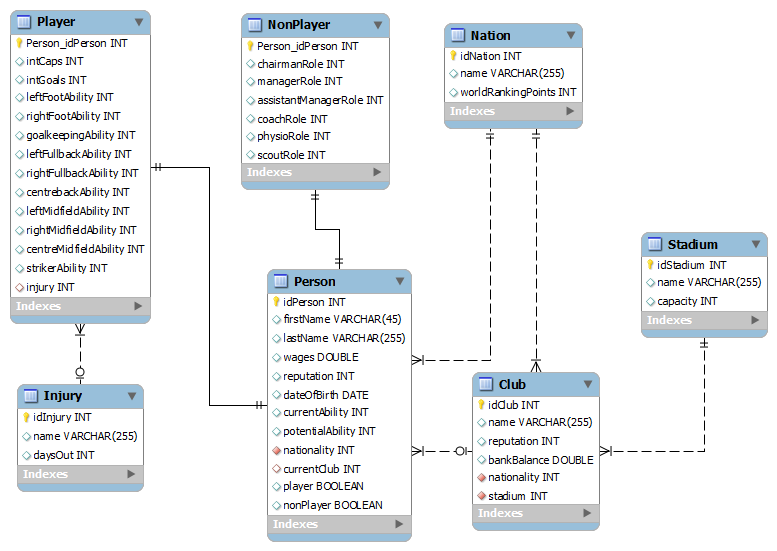
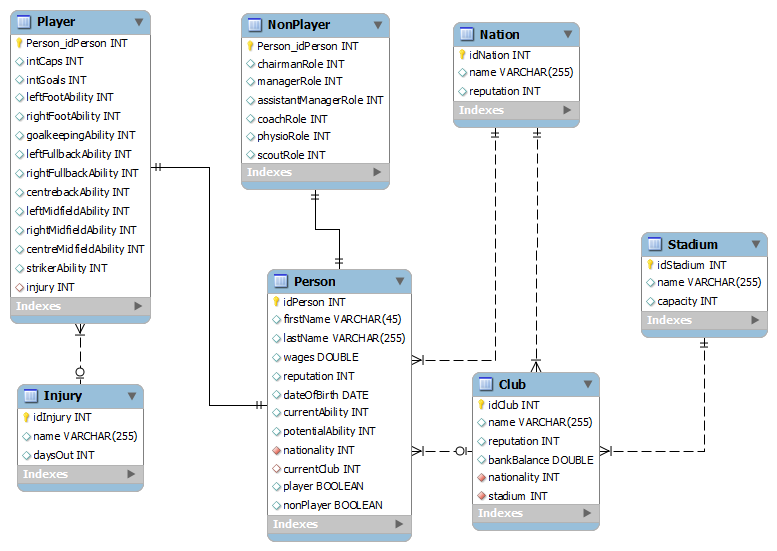
Added another screen as well as removing previous manager when user takes over

Changed region(s): [[0.556, 0.0309, 0.7722, 0.2777]]

diff --git a/src/ie/tippinst/jod/fm/gui/MainGame.java b/src/ie/tippinst/jod/fm/gui/MainGame.java
@@ -1,0 +1,109 @@
+package ie.tippinst.jod.fm.gui;
+
+/*
+ * To change this template, choose Tools | Templates
+ * and open the template in the editor.
+ */
+
+/*
+ * MainGame.java
+ *
+ * Created on 20-Nov-2009, 22:54:32
+ */
+
+/**
+ *
+ * @author Joseph
+ */
+public class MainGame extends javax.swing.JFrame {
+
+    /** Creates new form MainGame */
+    public MainGame() {
+    	super("Football Manager");
+        initComponents();
+        this.setLocationRelativeTo(null);
+    }
+
+    /** This method is called from within the constructor to
+     * initialize the form.
+     * WARNING: Do NOT modify this code. The content of this method is
+     * always regenerated by the Form Editor.
+     */
+    @SuppressWarnings("unchecked")
+    // <editor-fold defaultstate="collapsed" desc="Generated Code">
+    private void initComponents() {
+
+        jButton1 = new javax.swing.JButton();
+        jButton2 = new javax.swing.JButton();
+        jButton3 = new javax.swing.JButton();
+        jPanel1 = new javax.swing.JPanel();
+        jMenuBar1 = new javax.swing.JMenuBar();
+        jMenu1 = new javax.swing.JMenu();
+        jMenu2 = new javax.swing.JMenu();
+
+        setDefaultCloseOperation(javax.swing.WindowConstants.EXIT_ON_CLOSE);
+
+        jButton1.setText("Back");
+
+        jButton2.setText("Continue");
+
+        jButton3.setText("Forward");
+
+        javax.swing.GroupLayout jPanel1Layout = new javax.swing.GroupLayout(jPanel1);
+        jPanel1.setLayout(jPanel1Layout);
+        jPanel1Layout.setHorizontalGroup(
+            jPanel1Layout.createParallelGroup(javax.swing.GroupLayout.Alignment.LEADING)
+            .addGap(0, 400, Short.MAX_VALUE)
+        );
+        jPanel1Layout.setVerticalGroup(
+            jPanel1Layout.createParallelGroup(javax.swing.GroupLayout.Alignment.LEADING)
+            .addGap(0, 235, Short.MAX_VALUE)
+        );
+
+        jMenu1.setText("File");
+        jMenuBar1.add(jMenu1);
+        
+
+        jMenu2.setText("Edit");
+        jMenuBar1.add(jMenu2);
+
+        setJMenuBar(jMenuBar1);
+
+        javax.swing.GroupLayout layout = new javax.swing.GroupLayout(getContentPane());
+        getContentPane().setLayout(layout);
+        layout.setHorizontalGroup(
+            layout.createParallelGroup(javax.swing.GroupLayout.Alignment.LEADING)
+            .addComponent(jPanel1, javax.swing.GroupLayout.DEFAULT_SIZE, javax.swing.GroupLayout.DEFAULT_SIZE, Short.MAX_VALUE)
+            .addGroup(layout.createSequentialGroup()
+                .addComponent(jButton1, javax.swing.GroupLayout.PREFERRED_SIZE, 63, javax.swing.GroupLayout.PREFERRED_SIZE)
+                .addPreferredGap(javax.swing.LayoutStyle.ComponentPlacement.RELATED)
+                .addComponent(jButton3, javax.swing.GroupLayout.PREFERRED_SIZE, 91, javax.swing.GroupLayout.PREFERRED_SIZE)
+                .addPreferredGap(javax.swing.LayoutStyle.ComponentPlacement.RELATED, 142, Short.MAX_VALUE)
+                .addComponent(jButton2, javax.swing.GroupLayout.PREFERRED_SIZE, 98, javax.swing.GroupLayout.PREFERRED_SIZE))
+        );
+        layout.setVerticalGroup(
+            layout.createParallelGroup(javax.swing.GroupLayout.Alignment.LEADING)
+            .addGroup(javax.swing.GroupLayout.Alignment.TRAILING, layout.createSequentialGroup()
+                .addComponent(jPanel1, javax.swing.GroupLayout.DEFAULT_SIZE, javax.swing.GroupLayout.DEFAULT_SIZE, Short.MAX_VALUE)
+                .addPreferredGap(javax.swing.LayoutStyle.ComponentPlacement.RELATED)
+                .addGroup(layout.createParallelGroup(javax.swing.GroupLayout.Alignment.BASELINE)
+                    .addComponent(jButton1, javax.swing.GroupLayout.PREFERRED_SIZE, 36, javax.swing.GroupLayout.PREFERRED_SIZE)
+                    .addComponent(jButton2, javax.swing.GroupLayout.PREFERRED_SIZE, 38, javax.swing.GroupLayout.PREFERRED_SIZE)
+                    .addComponent(jButton3, javax.swing.GroupLayout.PREFERRED_SIZE, 36, javax.swing.GroupLayout.PREFERRED_SIZE)))
+        );
+
+        pack();
+    }// </editor-fold>
+
+    // Variables declaration - do not modify
+    private javax.swing.JButton jButton1;
+    private javax.swing.JButton jButton2;
+    private javax.swing.JButton jButton3;
+    private javax.swing.JMenu jMenu1;
+    private javax.swing.JMenu jMenu2;
+    private javax.swing.JMenuBar jMenuBar1;
+    private javax.swing.JPanel jPanel1;
+    // End of variables declaration
+
+}
+

diff --git a/src/ie/tippinst/jod/fm/app/Game.java b/src/ie/tippinst/jod/fm/app/Game.java
@@ -57,6 +57,23 @@ public class Game {
 		Iterator<Injury> iInjury;
 		Iterator<Nation> iNation;
 		
+		/*File file = new File("stadium.xml");
+		try {
+			FileInputStream fos = new FileInputStream(file);
+			BufferedInputStream bos = new BufferedInputStream(fos);
+			XMLDecoder decoder = new XMLDecoder(bos);
+			do{
+				stadiumList.add((Stadium)decoder.readObject());
+			}while(stadiumList.size() < 2);
+		} catch (FileNotFoundException e) {
+			e.printStackTrace();
+		}
+		
+		Iterator<Stadium> iStadium = stadiumList.iterator();
+		while(iStadium.hasNext()){
+			System.out.println(iStadium.next());
+		}*/
+		
 		try {
 			Class.forName("org.gjt.mm.mysql.Driver");
 			
@@ -249,8 +266,22 @@ public class Game {
 		NonPlayer user = new NonPlayer(firstName, surname, nation, 5000, new Date(), 100, 200, 1, 20, 1, 1, 1, 1, userClub);
 		getPersonList().add(user);
 		System.out.println(user);
-		
-	}
-
-	
+		Iterator<Person> iPerson = personList.iterator();
+		while(iPerson.hasNext()){
+			Person p = iPerson.next();
+			if((p instanceof NonPlayer)&&(p.getCurrentClub().getId() == userClub.getId())&&(((NonPlayer)p).getManagerRole() == 20)&&(iPerson.hasNext())){
+				System.out.println(p);
+				iClub = clubList.iterator();
+				Club c = null;
+				while(iClub.hasNext()){
+					c = iClub.next();
+					if(c.getName().equals("No Club"))
+					break;
+				}
+				p.setCurrentClub(c);
+				System.out.println(p);
+				break;
+			}
+		}
+	}	
 }

diff --git a/src/ie/tippinst/jod/fm/model/Person.java b/src/ie/tippinst/jod/fm/model/Person.java
@@ -16,6 +16,14 @@ public abstract class Person {
 	private Date contractExpiry;
 	private Club currentClub;
 	
+	public Club getCurrentClub() {
+		return currentClub;
+	}
+
+	public void setCurrentClub(Club currentClub) {
+		this.currentClub = currentClub;
+	}
+
 	protected Person(int id, String firstName, String lastName, Nation nationality, double wages,
 			int reputation, Date dob, int currentAbility, int potentialAbility,
 			Date contractExpiry, Club currentClub) {
@@ -46,14 +54,12 @@ public abstract class Person {
 		this.currentClub = currentClub;
 	}
 
-
-
 	@Override
 	public String toString() {
 		return "Person [contractExpiry=" + contractExpiry + ", currentAbility="
-				+ currentAbility + ", currentClub=" + currentClub + ", dob="
+				+ currentAbility + ", currentClub=" + currentClub.getName() + ", dob="
 				+ dob + ", firstName=" + firstName + ", id=" + id
-				+ ", lastName=" + lastName + ", nationality=" + nationality
+				+ ", lastName=" + lastName/* + ", nationality=" + nationality.getName()*/
 				+ ", potentialAbility=" + potentialAbility + ", reputation="
 				+ reputation + ", wages=" + wages + "]";
 	}

diff --git a/src/ie/tippinst/jod/fm/model/NonPlayer.java b/src/ie/tippinst/jod/fm/model/NonPlayer.java
@@ -38,6 +38,54 @@ public class NonPlayer extends Person {
 		this.physioRole = physioRole;
 		this.scoutRole = scoutRole;
 	}
+
+	public int getChairmanRole() {
+		return chairmanRole;
+	}
+
+	public void setChairmanRole(int chairmanRole) {
+		this.chairmanRole = chairmanRole;
+	}
+
+	public int getManagerRole() {
+		return managerRole;
+	}
+
+	public void setManagerRole(int managerRole) {
+		this.managerRole = managerRole;
+	}
+
+	public int getAssistantManagerRole() {
+		return assistantManagerRole;
+	}
+
+	public void setAssistantManagerRole(int assistantManagerRole) {
+		this.assistantManagerRole = assistantManagerRole;
+	}
+
+	public int getCoachRole() {
+		return coachRole;
+	}
+
+	public void setCoachRole(int coachRole) {
+		this.coachRole = coachRole;
+	}
+
+	public int getPhysioRole() {
+		return physioRole;
+	}
+
+	public void setPhysioRole(int physioRole) {
+		this.physioRole = physioRole;
+	}
+
+	public int getScoutRole() {
+		return scoutRole;
+	}
+
+	public void setScoutRole(int scoutRole) {
+		this.scoutRole = scoutRole;
+	}
 	
 	
 

diff --git a/src/ie/tippinst/jod/fm/model/Nation.java b/src/ie/tippinst/jod/fm/model/Nation.java
@@ -17,26 +17,26 @@ public class Nation {
 		// TODO Auto-generated constructor stub
 	}
 
-	public Nation(int id, String name, int worldRankingPoints,
+	public Nation(int id, String name, int reputation,
 			List<Player> squad, List<NonPlayer> staff) {
 		super();
 		this.id = id;
 		this.name = name;
-		this.reputation = worldRankingPoints;
+		this.reputation = reputation;
 		this.squad = squad;
 		this.staff = staff;
 	}
 
-	public Nation(int id, String name, int worldRankingPoints) {
+	public Nation(int id, String name, int reputation) {
 		super();
 		this.id = id;
 		this.name = name;
-		this.reputation = worldRankingPoints;
+		this.reputation = reputation;
 	}
 
 	@Override
 	public String toString() {
-		return "Nation [name=" + name + ", worldRankingPoints="
+		return "Nation [name=" + name + ", reputation="
 				+ reputation + "]";
 	}
 

diff --git a/src/ie/tippinst/jod/fm/gui/NewUserScreen.java b/src/ie/tippinst/jod/fm/gui/NewUserScreen.java
@@ -69,7 +69,7 @@ public class NewUserScreen extends JFrame {
 		this.getContentPane().add(clubLbl);
 		this.getContentPane().add(clubCbo);
 		this.getContentPane().add(addUser);
-		this.setSize(475,130);
+		this.setSize(475,170);
 		this.setLocationRelativeTo(null);
 		
 		addUser.addActionListener(new ActionListener() {
@@ -84,6 +84,9 @@ public class NewUserScreen extends JFrame {
 	
 	private void addNewUser(ActionEvent ae){
 		game.createNewUser(firstNameTxt.getText(), surnameTxt.getText(), new Date(), (String) nationalityCbo.getSelectedItem(), (String) clubCbo.getSelectedItem());
+		MainGame mg = new MainGame();
+		mg.setVisible(true);
+		this.setVisible(false);
 	}
 
 }

diff --git a/src/ie/tippinst/jod/fm/model/Club.java b/src/ie/tippinst/jod/fm/model/Club.java
@@ -40,6 +40,14 @@ public class Club {
 				+ ", nationality=" + nationality + ", reputation=" + reputation
 				+ "]";
 	}
+
+	public void setStaff(List<NonPlayer> staff) {
+		this.staff = staff;
+	}
+
+	public List<NonPlayer> getStaff() {
+		return staff;
+	}
 	
 	
 
